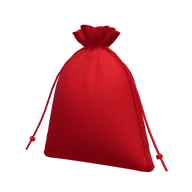
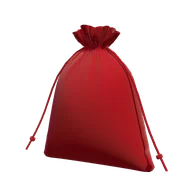
Modélisateur 3D : tissus et éclairage plus réalistes
Les couleurs vives (bleu royal, rouge) paraissaient plates et le noir n'avait plus de plis. Les tissus ont maintenant un léger duvet, comme de vraies fibres, et l'éclairage est plus contrasté : les plis se voient dans toutes les couleurs, sans fausser les teintes. Vignettes refaites.

Claude-Session: https://claude.ai/code/session_0147zZ1NPkQwfXnYzdRfphK2

diff --git a/outils/generateur/maquette_app.js b/outils/generateur/maquette_app.js
@@ -20,14 +20,14 @@ let cur=null,dirty=true,seq=0;
 // ---------- scène ----------
 const cv=$('#view');
 const R=new THREE.WebGLRenderer({canvas:cv,antialias:true,alpha:true,preserveDrawingBuffer:false});
-R.setPixelRatio(Math.min(devicePixelRatio||1,2));R.toneMapping=THREE.NeutralToneMapping;R.toneMappingExposure=1;
+R.setPixelRatio(Math.min(devicePixelRatio||1,2));R.toneMapping=THREE.NeutralToneMapping;R.toneMappingExposure=.95;
 R.shadowMap.enabled=true;R.shadowMap.type=THREE.PCFSoftShadowMap;
 const scene=new THREE.Scene(),cam=new THREE.PerspectiveCamera(26,1,.1,50);
-scene.environment=new THREE.PMREMGenerator(R).fromScene(new RoomEnvironment(),.04).texture;scene.environmentIntensity=.5;
-const key=new THREE.DirectionalLight(0xfff6ea,1.7);key.position.set(1.8,3.2,3.6);key.castShadow=true;key.shadow.mapSize.set(1024,1024);key.shadow.bias=-.0004;key.shadow.normalBias=.012;key.shadow.radius=5;
+scene.environment=new THREE.PMREMGenerator(R).fromScene(new RoomEnvironment(),.04).texture;scene.environmentIntensity=.3;
+const key=new THREE.DirectionalLight(0xfff6ea,2.2);key.position.set(1.8,3.2,3.6);key.castShadow=true;key.shadow.mapSize.set(1024,1024);key.shadow.bias=-.0004;key.shadow.normalBias=.012;key.shadow.radius=5;
 Object.assign(key.shadow.camera,{left:-1.3,right:1.3,top:1.3,bottom:-1.3,near:.5,far:12});scene.add(key);
-const rim=new THREE.DirectionalLight(0xbfd0ff,1);rim.position.set(-3,1.6,-3);scene.add(rim);
-const fill=new THREE.DirectionalLight(0xffffff,.3);fill.position.set(-2.5,.6,2.5);scene.add(fill);
+const rim=new THREE.DirectionalLight(0xbfd0ff,1.2);rim.position.set(-3,1.6,-3);scene.add(rim);
+const fill=new THREE.DirectionalLight(0xffffff,.15);fill.position.set(-2.5,.6,2.5);scene.add(fill);
 const pivot=new THREE.Group();scene.add(pivot);
 const shadow=(()=>{const c=mk(256,256),x=c.getContext('2d'),g=x.createRadialGradient(128,128,8,128,128,126);g.addColorStop(0,'rgba(0,0,0,.55)');g.addColorStop(1,'rgba(0,0,0,0)');x.fillStyle=g;x.fillRect(0,0,256,256);
  const m=new THREE.Mesh(new THREE.PlaneGeometry(1,1),new THREE.MeshBasicMaterial({map:new THREE.CanvasTexture(c),transparent:true,depthWrite:false,opacity:.6}));m.rotation.x=-Math.PI/2;scene.add(m);return m})();
@@ -62,14 +62,18 @@ function guideTex(ar){const k=Math.round(ar*20);if(guides[k])return guides[k];co
 
 // ---------- chargement et préparation d'un produit ----------
 const loader=new GLTFLoader();loader.setMeshoptDecoder(MeshoptDecoder);
-const cache={},V=()=>new THREE.Vector3();
+const cache={},V=()=>new THREE.Vector3(),WHITE=new THREE.Color(1,1,1);
 function build(p){return new Promise((ok,ko)=>loader.load(new URL('../models/'+p.id+'.glb',import.meta.url).href,g=>{try{ok(prepare(p,g.scene))}catch(e){ko(e)}},undefined,ko))}
 function prepare(p,src){const g=new THREE.Group(),inner=new THREE.Group();if(p.upv)src.quaternion.setFromUnitVectors(new THREE.Vector3(...p.upv).normalize(),new THREE.Vector3(0,1,0));if(p.rot)src.quaternion.premultiply(new THREE.Quaternion().setFromEuler(new THREE.Euler(p.rot[0],p.rot[1],p.rot[2])));inner.add(src);g.add(inner);g.updateMatrixWorld(true);
  const b=new THREE.Box3().setFromObject(src),sz=b.getSize(V()),k=1.3/Math.max(sz.x,sz.y,sz.z);inner.scale.setScalar(k);inner.position.copy(b.getCenter(V())).multiplyScalar(-k);g.updateMatrixWorld(true);
  const size=sz.multiplyScalar(k),set=new Set();
  src.traverse(m=>{if(!m.isMesh)return;m.castShadow=m.receiveShadow=true;if(!m.geometry.attributes.normal)m.geometry.computeVertexNormals();[].concat(m.material).forEach(x=>set.add(x))});
+ // tissus : matière avec un léger duvet (reflet rasant des fibres), sinon les couleurs vives paraissent plates
+ if(p.fabric){const sw=new Map();for(const m of set)if(m.userData.tint){const n=new THREE.MeshPhysicalMaterial({name:m.name,color:m.color,map:m.map,normalMap:m.normalMap,aoMap:m.aoMap,side:m.side,roughness:.9,metalness:0,sheen:p.sheen===undefined?.65:p.sheen,sheenRoughness:.6});
+   n.normalScale.copy(m.normalScale);n.userData=m.userData;sw.set(m,n)}
+  src.traverse(m=>{if(m.isMesh)m.material=Array.isArray(m.material)?m.material.map(x=>sw.get(x)||x):sw.get(m.material)||m.material});for(const[a,b]of sw){set.delete(a);set.add(b);a.dispose()}}
  const mats=[...set],tinted=mats.filter(m=>m.userData.tint),on=p.on?mats.filter(m=>new RegExp(p.on).test(m.name)):tinted.length?tinted:mats;
- for(const m of mats){if(m.userData.tint&&p.fabric){m.roughnessMap=m.metalnessMap=null;m.roughness=.9;m.metalness=0;}if(p.mat&&m.userData.tint)Object.assign(m,p.mat);if(m.normalMap&&p.bump)m.normalScale.setScalar(p.bump)}
+ for(const m of mats){if(p.mat&&m.userData.tint)Object.assign(m,p.mat);if(m.normalMap&&p.bump)m.normalScale.setScalar(p.bump)}
  const U={uPM:{value:[new THREE.Matrix4(),new THREE.Matrix4()]},uUV:{value:[new THREE.Matrix3(),new THREE.Matrix3()]},uCfg:{value:[new THREE.Vector4(),new THREE.Vector4()]},uArt0:{value:null},uArt1:{value:null}};
  on.forEach(m=>hook(m,U));
  // repères d'impression : à plat (devant, dos, ou direction donnée) ou enroulé autour d'un axe vertical
@@ -85,7 +89,7 @@ function prepare(p,src){const g=new THREE.Group(),inner=new THREE.Group();if(p.u
  return{p,group:g,size,tinted,frames,U,sync(){gi.copy(g.matrixWorld).invert();SIDES.forEach((s,i)=>{if(frames[s])U.uPM.value[i].multiplyMatrices(frames[s].inv,gi)})}}}
 function colorOf(p){return p.colors[S.ci[p.id]||0]}
 // applique la couleur choisie et place les images (ou le repère « Votre image »)
-function apply(guide=S.guide){if(!cur)return;const p=cur.p,col=colorOf(p)[2];for(const m of cur.tinted)m.color.set(col);
+function apply(guide=S.guide){if(!cur)return;const p=cur.p,col=colorOf(p)[2];for(const m of cur.tinted){m.color.set(col);if(m.sheen)m.sheenColor.set(col).lerp(WHITE,.5)}
  SIDES.forEach((s,i)=>{const f=cur.frames[s],a=S.art[s],cfg=cur.U.uCfg.value[i];let tex=null,dw,dh,ox=0,oy=0,r=0;
   if(f&&a){tex=a.tex;if(a.ar>f.w/f.h){dw=f.w;dh=f.w/a.ar}else{dh=f.h;dw=f.h*a.ar}dw*=a.size;dh*=a.size;ox=a.cx*f.w/2;oy=-a.cy*f.h/2;r=-a.rot*Math.PI/180}
   else if(f&&guide&&S.side===s){tex=guideTex(f.w/f.h);dw=f.w;dh=f.h}

diff --git a/site/maquette/app.js b/site/maquette/app.js
@@ -20,14 +20,14 @@ let cur=null,dirty=true,seq=0;
 // ---------- scène ----------
 const cv=$('#view');
 const R=new THREE.WebGLRenderer({canvas:cv,antialias:true,alpha:true,preserveDrawingBuffer:false});
-R.setPixelRatio(Math.min(devicePixelRatio||1,2));R.toneMapping=THREE.NeutralToneMapping;R.toneMappingExposure=1;
+R.setPixelRatio(Math.min(devicePixelRatio||1,2));R.toneMapping=THREE.NeutralToneMapping;R.toneMappingExposure=.95;
 R.shadowMap.enabled=true;R.shadowMap.type=THREE.PCFSoftShadowMap;
 const scene=new THREE.Scene(),cam=new THREE.PerspectiveCamera(26,1,.1,50);
-scene.environment=new THREE.PMREMGenerator(R).fromScene(new RoomEnvironment(),.04).texture;scene.environmentIntensity=.5;
-const key=new THREE.DirectionalLight(0xfff6ea,1.7);key.position.set(1.8,3.2,3.6);key.castShadow=true;key.shadow.mapSize.set(1024,1024);key.shadow.bias=-.0004;key.shadow.normalBias=.012;key.shadow.radius=5;
+scene.environment=new THREE.PMREMGenerator(R).fromScene(new RoomEnvironment(),.04).texture;scene.environmentIntensity=.3;
+const key=new THREE.DirectionalLight(0xfff6ea,2.2);key.position.set(1.8,3.2,3.6);key.castShadow=true;key.shadow.mapSize.set(1024,1024);key.shadow.bias=-.0004;key.shadow.normalBias=.012;key.shadow.radius=5;
 Object.assign(key.shadow.camera,{left:-1.3,right:1.3,top:1.3,bottom:-1.3,near:.5,far:12});scene.add(key);
-const rim=new THREE.DirectionalLight(0xbfd0ff,1);rim.position.set(-3,1.6,-3);scene.add(rim);
-const fill=new THREE.DirectionalLight(0xffffff,.3);fill.position.set(-2.5,.6,2.5);scene.add(fill);
+const rim=new THREE.DirectionalLight(0xbfd0ff,1.2);rim.position.set(-3,1.6,-3);scene.add(rim);
+const fill=new THREE.DirectionalLight(0xffffff,.15);fill.position.set(-2.5,.6,2.5);scene.add(fill);
 const pivot=new THREE.Group();scene.add(pivot);
 const shadow=(()=>{const c=mk(256,256),x=c.getContext('2d'),g=x.createRadialGradient(128,128,8,128,128,126);g.addColorStop(0,'rgba(0,0,0,.55)');g.addColorStop(1,'rgba(0,0,0,0)');x.fillStyle=g;x.fillRect(0,0,256,256);
  const m=new THREE.Mesh(new THREE.PlaneGeometry(1,1),new THREE.MeshBasicMaterial({map:new THREE.CanvasTexture(c),transparent:true,depthWrite:false,opacity:.6}));m.rotation.x=-Math.PI/2;scene.add(m);return m})();
@@ -62,14 +62,18 @@ function guideTex(ar){const k=Math.round(ar*20);if(guides[k])return guides[k];co
 
 // ---------- chargement et préparation d'un produit ----------
 const loader=new GLTFLoader();loader.setMeshoptDecoder(MeshoptDecoder);
-const cache={},V=()=>new THREE.Vector3();
+const cache={},V=()=>new THREE.Vector3(),WHITE=new THREE.Color(1,1,1);
 function build(p){return new Promise((ok,ko)=>loader.load(new URL('../models/'+p.id+'.glb',import.meta.url).href,g=>{try{ok(prepare(p,g.scene))}catch(e){ko(e)}},undefined,ko))}
 function prepare(p,src){const g=new THREE.Group(),inner=new THREE.Group();if(p.upv)src.quaternion.setFromUnitVectors(new THREE.Vector3(...p.upv).normalize(),new THREE.Vector3(0,1,0));if(p.rot)src.quaternion.premultiply(new THREE.Quaternion().setFromEuler(new THREE.Euler(p.rot[0],p.rot[1],p.rot[2])));inner.add(src);g.add(inner);g.updateMatrixWorld(true);
  const b=new THREE.Box3().setFromObject(src),sz=b.getSize(V()),k=1.3/Math.max(sz.x,sz.y,sz.z);inner.scale.setScalar(k);inner.position.copy(b.getCenter(V())).multiplyScalar(-k);g.updateMatrixWorld(true);
  const size=sz.multiplyScalar(k),set=new Set();
  src.traverse(m=>{if(!m.isMesh)return;m.castShadow=m.receiveShadow=true;if(!m.geometry.attributes.normal)m.geometry.computeVertexNormals();[].concat(m.material).forEach(x=>set.add(x))});
+ // tissus : matière avec un léger duvet (reflet rasant des fibres), sinon les couleurs vives paraissent plates
+ if(p.fabric){const sw=new Map();for(const m of set)if(m.userData.tint){const n=new THREE.MeshPhysicalMaterial({name:m.name,color:m.color,map:m.map,normalMap:m.normalMap,aoMap:m.aoMap,side:m.side,roughness:.9,metalness:0,sheen:p.sheen===undefined?.65:p.sheen,sheenRoughness:.6});
+   n.normalScale.copy(m.normalScale);n.userData=m.userData;sw.set(m,n)}
+  src.traverse(m=>{if(m.isMesh)m.material=Array.isArray(m.material)?m.material.map(x=>sw.get(x)||x):sw.get(m.material)||m.material});for(const[a,b]of sw){set.delete(a);set.add(b);a.dispose()}}
  const mats=[...set],tinted=mats.filter(m=>m.userData.tint),on=p.on?mats.filter(m=>new RegExp(p.on).test(m.name)):tinted.length?tinted:mats;
- for(const m of mats){if(m.userData.tint&&p.fabric){m.roughnessMap=m.metalnessMap=null;m.roughness=.9;m.metalness=0;}if(p.mat&&m.userData.tint)Object.assign(m,p.mat);if(m.normalMap&&p.bump)m.normalScale.setScalar(p.bump)}
+ for(const m of mats){if(p.mat&&m.userData.tint)Object.assign(m,p.mat);if(m.normalMap&&p.bump)m.normalScale.setScalar(p.bump)}
  const U={uPM:{value:[new THREE.Matrix4(),new THREE.Matrix4()]},uUV:{value:[new THREE.Matrix3(),new THREE.Matrix3()]},uCfg:{value:[new THREE.Vector4(),new THREE.Vector4()]},uArt0:{value:null},uArt1:{value:null}};
  on.forEach(m=>hook(m,U));
  // repères d'impression : à plat (devant, dos, ou direction donnée) ou enroulé autour d'un axe vertical
@@ -85,7 +89,7 @@ function prepare(p,src){const g=new THREE.Group(),inner=new THREE.Group();if(p.u
  return{p,group:g,size,tinted,frames,U,sync(){gi.copy(g.matrixWorld).invert();SIDES.forEach((s,i)=>{if(frames[s])U.uPM.value[i].multiplyMatrices(frames[s].inv,gi)})}}}
 function colorOf(p){return p.colors[S.ci[p.id]||0]}
 // applique la couleur choisie et place les images (ou le repère « Votre image »)
-function apply(guide=S.guide){if(!cur)return;const p=cur.p,col=colorOf(p)[2];for(const m of cur.tinted)m.color.set(col);
+function apply(guide=S.guide){if(!cur)return;const p=cur.p,col=colorOf(p)[2];for(const m of cur.tinted){m.color.set(col);if(m.sheen)m.sheenColor.set(col).lerp(WHITE,.5)}
  SIDES.forEach((s,i)=>{const f=cur.frames[s],a=S.art[s],cfg=cur.U.uCfg.value[i];let tex=null,dw,dh,ox=0,oy=0,r=0;
   if(f&&a){tex=a.tex;if(a.ar>f.w/f.h){dw=f.w;dh=f.w/a.ar}else{dh=f.h;dw=f.h*a.ar}dw*=a.size;dh*=a.size;ox=a.cx*f.w/2;oy=-a.cy*f.h/2;r=-a.rot*Math.PI/180}
   else if(f&&guide&&S.side===s){tex=guideTex(f.w/f.h);dw=f.w;dh=f.h}
